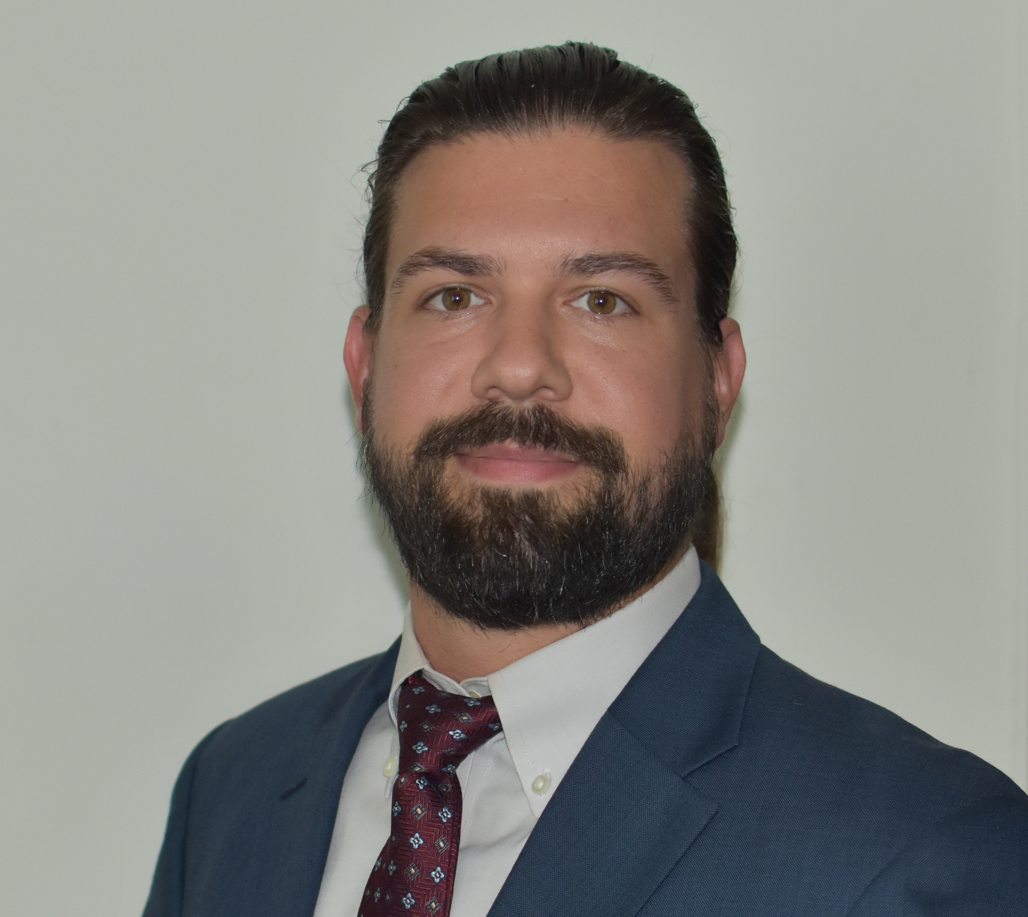
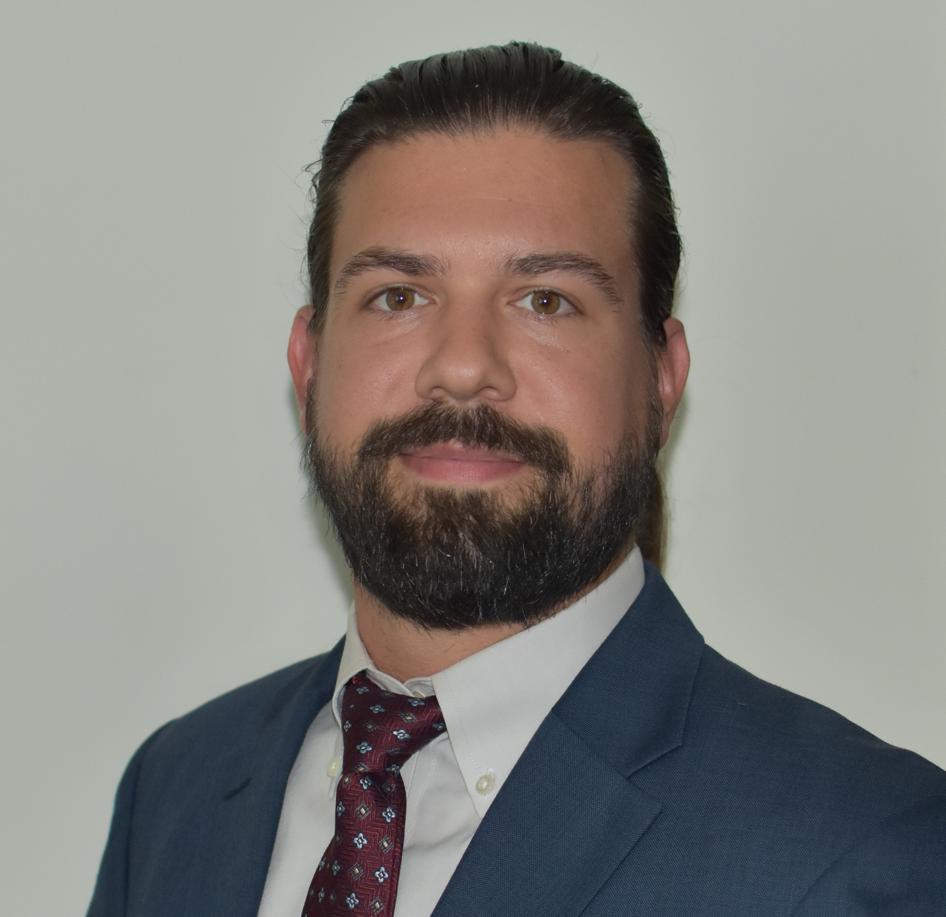
features new

diff --git a/index.html b/index.html
@@ -218,6 +218,8 @@
     top: 25px; /* Position from the top */
     left: 25px; /* Position from the left */
     transform: none; /* Override the default centering transform */
+    max-width: 400px;
+    max-height: 600px;
   }
 
   /* Specific override for the bio window to be positioned top-right */
@@ -228,6 +230,8 @@
     right: 25px; /* Position from the right */
     left: auto; /* Override the default left: 50% */
     transform: none; /* Override the default centering transform */
+    max-width: 800px;
+    max-height: 750px;
   }
 
   #bio-content {
@@ -260,11 +264,20 @@
   }
   .resize-handle.se {
     right: 0;
+    z-index: 11; /* Ensure corners are on top of the bottom handle */
     cursor: se-resize;
   }
   .resize-handle.sw {
     left: 0;
+    z-index: 11; /* Ensure corners are on top of the bottom handle */
     cursor: sw-resize;
+  }
+  .resize-handle.s {
+    bottom: 0;
+    left: 0;
+    width: 100%; /* Span the full width of the window */
+    height: 10px; /* Slimmer than corner handles */
+    cursor: s-resize;
   }
   
   .gui-close-button {
@@ -398,16 +411,17 @@
   <div id="pic-container" class="gui-hidden">
     <div id="pic-window" class="gui-window">
       <div id="pic-title-bar" class="gui-title-bar">
-        <span>Headshot</span>
+        <span id="pic-title">Caricature</span>
         <button id="pic-close-button" class="gui-close-button">X</button>
       </div>
       <div id="pic-content" class="gui-content">
         <!--<p>This is a placeholder for an image or other content.</p>-->
-        <img src="pics/Matt_Caricature.PNG" alt="Matt_Headshot">
+        <img id="pic-image" src="pics/Matt_Caricature.PNG" alt="Matt Caricature">
         <!--<p>In the future, this could display an actual image, maybe even a gallery.</p>-->
       </div>
       <div class="resize-handle se"></div>
       <div class="resize-handle sw"></div>
+      <div class="resize-handle s"></div>
     </div>
   </div>
 
@@ -425,6 +439,7 @@
       </div>
       <div class="resize-handle se"></div>
       <div class="resize-handle sw"></div>
+      <div class="resize-handle s"></div>
     </div>
   </div>
 
@@ -440,6 +455,8 @@
     const picContainer = document.getElementById('pic-container');
     const picWindow = document.getElementById('pic-window');
     const picCloseButton = document.getElementById('pic-close-button');
+    const picImage = document.getElementById('pic-image');
+    const picTitle = document.getElementById('pic-title');
     const bioContainer = document.getElementById('bio-container');
     const bioWindow = document.getElementById('bio-window');
     const bioCloseButton = document.getElementById('bio-close-button');
@@ -454,6 +471,9 @@
     let bioAwaitingResponse = false;
     let highestZ = 100; // For window stacking
     let windowStack = []; // To manage open window order
+
+    // --- Register secret command aliases ---
+    commandAliases['p-a'] = 'pic-a';
 
     // Focus the input when the user clicks/taps anywhere on the terminal body
     document.body.addEventListener('click', (event) => {
@@ -537,14 +557,22 @@
       terminal.appendChild(document.createTextNode(text));
     }
 
-    function showPicWindow() {
+    function showPicWindow(imageSrc, altText, title) {
+      // Update content before showing
+      picImage.src = imageSrc;
+      picImage.alt = altText;
+      picTitle.textContent = title;
+
       bringToFront(picWindow);
 
-      // By clearing inline styles, the window reverts to its CSS-defined
-      // position, which respects the media query for mobile/desktop.
-      picWindow.style.top = '';
-      picWindow.style.left = '';
-      picWindow.style.transform = '';
+      // Only reset position if the window is being opened for the first time.
+      // This prevents the window from jumping back to the center if the user
+      // has moved it and then switches images.
+      if (picContainer.classList.contains('gui-hidden')) {
+        picWindow.style.top = '';
+        picWindow.style.left = '';
+        picWindow.style.transform = '';
+      }
 
       picContainer.classList.remove('gui-hidden');
       picContainer.classList.add('gui-visible');
@@ -889,17 +917,19 @@
           element.style.top = `${rect.top}px`;
         }
 
-        // --- FIX for WH window resize jump ---
-        // First, lock the current rendered height as an inline style.
-        // This prevents the window from suddenly expanding if its content is taller than its max-height.
+        // --- FIX for window resize jump ---
+        // Lock the current rendered dimensions as inline styles.
+        // This prevents the window from suddenly changing size on first interaction
+        // if its content is larger than its set dimensions.
+        element.style.width = `${element.offsetWidth}px`;
         element.style.height = `${element.offsetHeight}px`;
-        // Now, remove the max-height constraint so the user can resize freely beyond the initial limit.
-        element.style.maxHeight = 'none';
 
         if (e.target.classList.contains('se')) {
           direction = 'se';
         } else if (e.target.classList.contains('sw')) {
           direction = 'sw';
+        } else if (e.target.classList.contains('s')) {
+          direction = 's';
         } else {
           return;
         }
@@ -934,24 +964,26 @@
         const dx = clientX - initialX;
         const dy = clientY - initialY;
 
-        // Get min dimensions from CSS to make resizing more robust.
+        // Get min/max dimensions from CSS to make resizing more robust.
         const styles = window.getComputedStyle(element);
         const minWidth = parseInt(styles.minWidth, 10);
         const minHeight = parseInt(styles.minHeight, 10);
+        const maxWidth = styles.maxWidth === 'none' ? Infinity : parseFloat(styles.maxWidth);
+        const maxHeight = styles.maxHeight === 'none' ? Infinity : parseFloat(styles.maxHeight);
 
         const newHeight = initialHeight + dy;
-        if (newHeight >= minHeight) {
+        if (newHeight >= minHeight && newHeight <= maxHeight) {
           element.style.height = newHeight + 'px';
         }
 
         if (direction === 'se') {
           const newWidth = initialWidth + dx;
-          if (newWidth >= minWidth) {
+          if (newWidth >= minWidth && newWidth <= maxWidth) {
             element.style.width = newWidth + 'px';
           }
         } else if (direction === 'sw') {
           const newWidth = initialWidth - dx;
-          if (newWidth >= minWidth) {
+          if (newWidth >= minWidth && newWidth <= maxWidth) {
             element.style.width = newWidth + 'px';
             element.style.left = (initialLeft + dx) + 'px';
           }
@@ -1185,8 +1217,12 @@
         return "ACCESSING EXTERNAL LINK...\nREDIRECTING TO LINKEDIN PROFILE IN NEW TAB.";
       },
       pic: () => {
-        showPicWindow();
-        return "Launching image viewer...";
+        showPicWindow('pics/Matt_Caricature.PNG', 'Matt Caricature', 'Caricature');
+        return "Launching image viewer... (Try 'pic-a' for a different view)";
+      },
+      'pic-a': () => {
+        showPicWindow('pics/headshot.png', 'Matt Headshot', 'Headshot');
+        return "Displaying headshot... (Try 'pic' for a different view)";
       },
       transfer: () => {
         const filePath = 'docs/Matthew_E_Iglody_2025_CV.pdf';

diff --git a/script.js b/script.js
@@ -50,6 +50,7 @@ const commandDescriptions = {
 
 const bioParts = [
   "Welcome to my professional digital footprint.\n" +
+  "  \n" +
   "I'm glad you could take the time to stop by and check it out.\n" +
   "My name is Matthew Iglody,\n" +
   "I am a mid-career professional who has been working in IT since College.\n" +
@@ -63,5 +64,9 @@ const bioParts = [
   "hit NYC, over the next two years we worked to maintain and update our colleauges tele presence and\n" +
   "around spring of 2022 NYC felt like it was getting it's traffic back. There were more people coming\n" +
   "back onsite and policies were changing.",
-  "In December of 2022 I got the opportunity to make the switch into Research IT, Clinical trials, and..."
+  "In December of 2022 I got the opportunity to make the switch into Research IT, Clinical trials, and...\n" +
+  "I was there for another two years",
+  "Congrats! You've reached the end of my bio.\n" +
+  "You have unlocked the code for a non-cartoon headshot!\n" +
+  "It is pic-a or p-a | Enjoy, and thanks again!",
 ];
